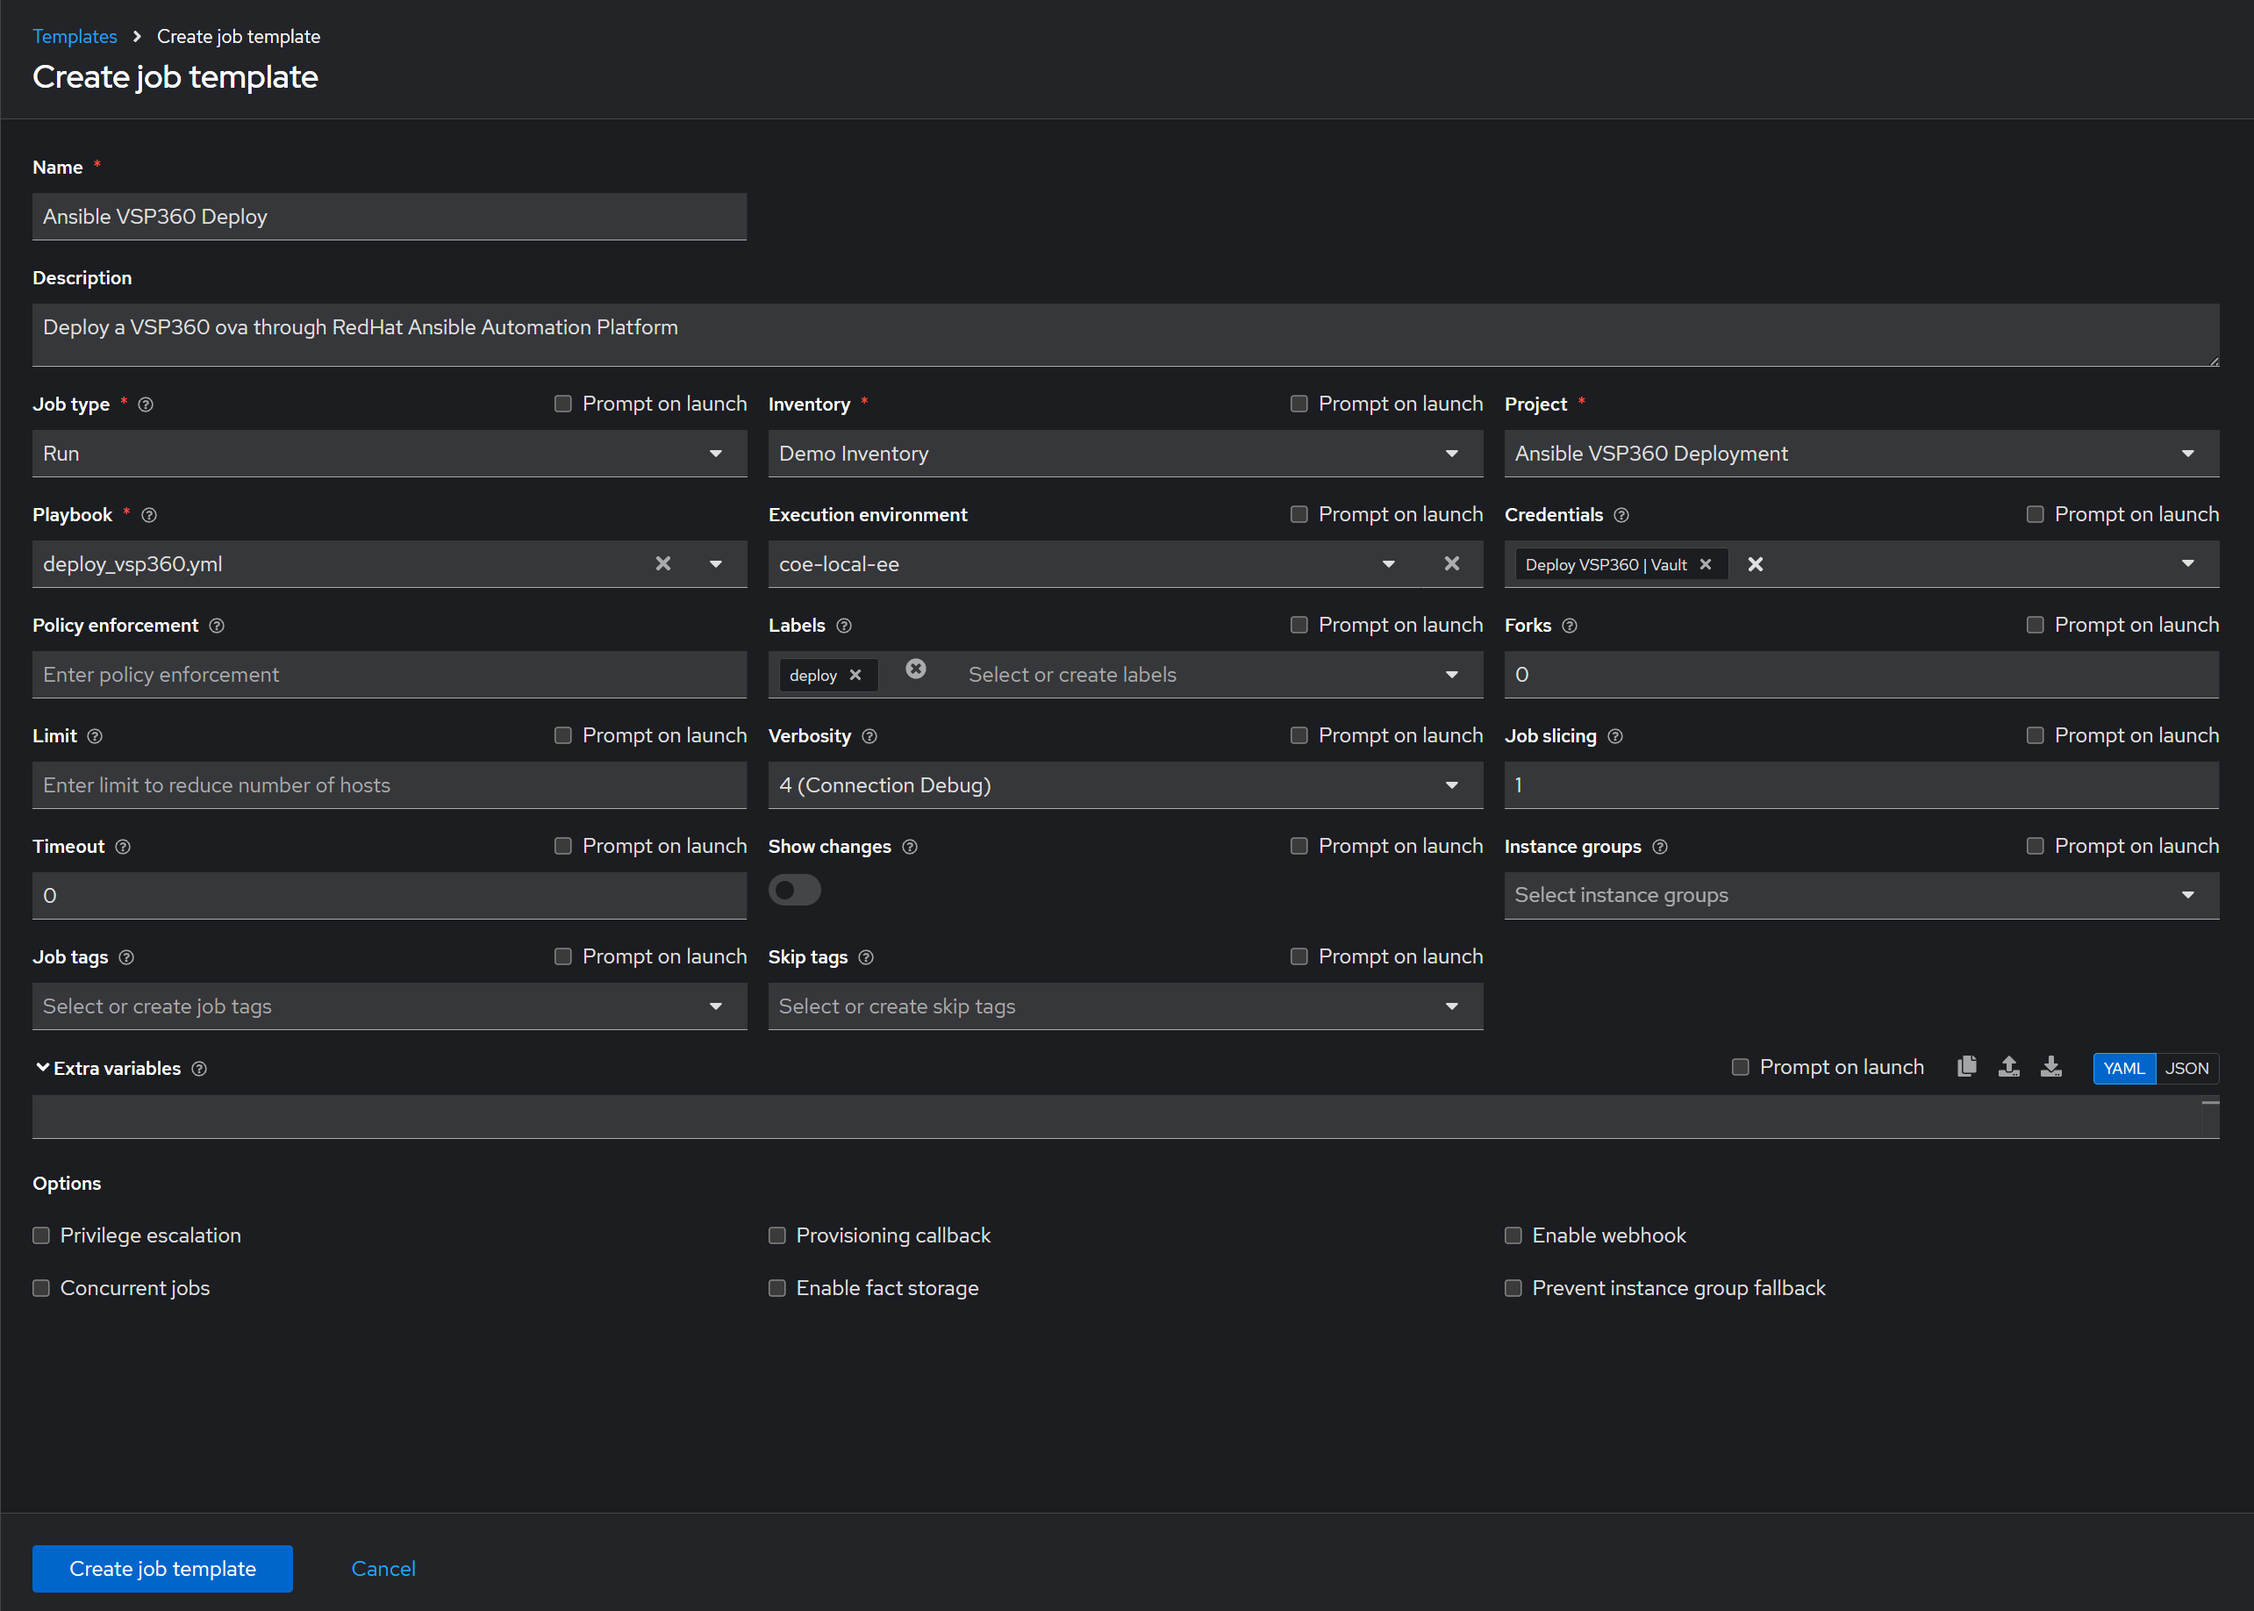
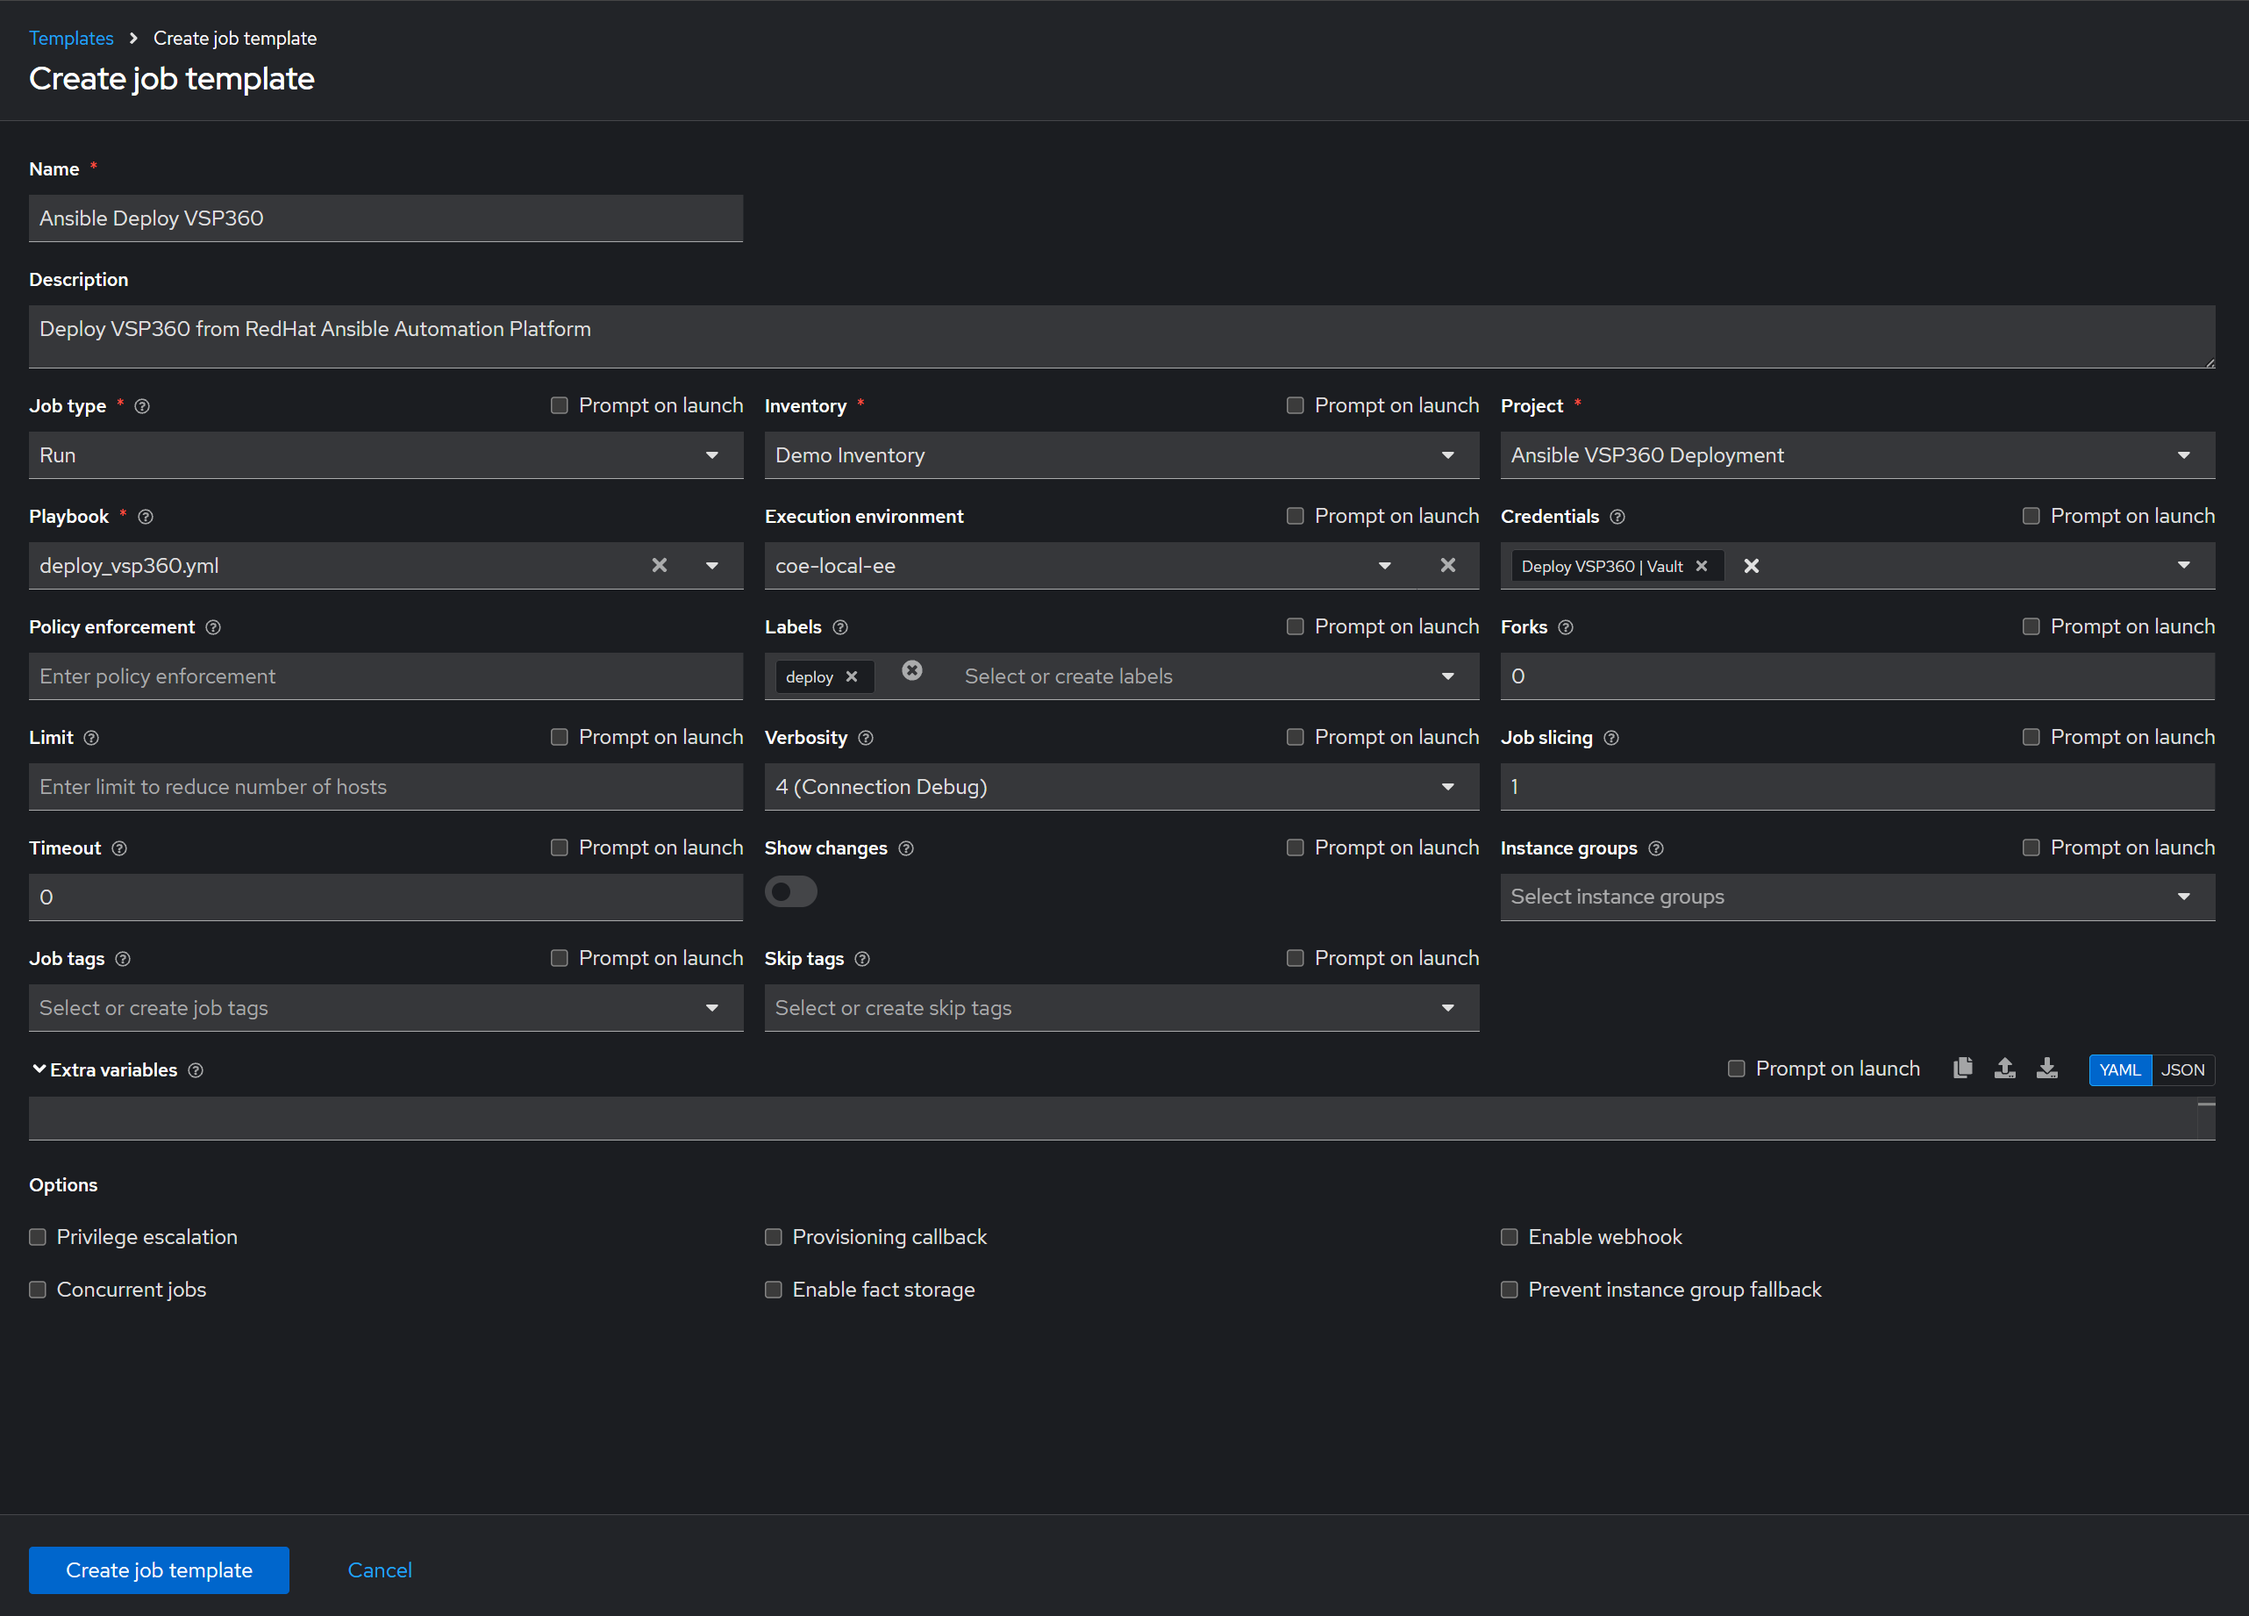
Update README

diff --git a/README.md b/README.md
@@ -118,7 +118,8 @@ Expected output:
 If you do not require automatic survey refresh from vCenter and the OVA
 file server, the deploy_vsp360.yml playbook can be used standalone with
 a manually configured survey in AAP. This removes the requirement for
-the Refresh VSP360 Survey job template and the nightly schedule.
+the Ansible Deploy VSP360 Survey Refresh job template and the nightly
+schedule.
 
 ### Step 1 — Create the Deploy Job Template
 
@@ -126,8 +127,8 @@ Follow Step 1 from the AAP Setup section below.
 
 ### Step 2 — Create the survey manually
 
-In AAP navigate to the Deploy VSP360 job template and select the
-Survey tab. Add the following questions manually:
+In AAP navigate to the Ansible Deploy VSP360 job template and select
+the Survey tab. Add the following questions manually:
 
 | Question | Variable | Type | Required |
 |---|---|---|---|
@@ -163,8 +164,8 @@ Disk Provisioning choices:
 
 ### Step 3 — Deploy VSP360
 
-Launch the Deploy VSP360 job template and complete the survey with
-your environment values.
+Launch the Ansible Deploy VSP360 job template and complete the survey
+with your environment values.
 
 ### Limitations of manual survey
 
@@ -183,13 +184,13 @@ Create a job template in AAP with the following settings:
 
 | Setting | Value |
 |---|---|
-| Name | Deploy VSP360 |
+| Name | Ansible Deploy VSP360 |
 | Playbook | deploy_vsp360.yml |
 | Credentials | Your Vault Credential |
 | Inventory | localhost |
 | Survey | Enabled (populated by the refresh job) |
 
-![Deploy VSP360 Job Template creation screen](images/Ansible_VSP360_Deploy.png)
+![Ansible Deploy VSP360 Job Template creation screen](images/Ansible_VSP360_Deploy.png)
 
 Note the Job Template ID from the URL once created — you will need it
 in Step 2.
@@ -210,12 +211,12 @@ Create a second job template with the following settings:
 
 | Setting | Value |
 |---|---|
-| Name | Refresh VSP360 Survey |
+| Name | Ansible Deploy VSP360 Survey Refresh |
 | Playbook | update_aap_survey.yml |
 | Credentials | Your Vault Credential |
 | Inventory | localhost |
 
-![Refresh VSP360 Survey Job Template creation screen](images/Ansible_VSP360_Refresh_Survey.png)
+![Ansible Deploy VSP360 Survey Refresh Job Template creation screen](images/Ansible_VSP360_Refresh_Survey.png)
 
 Add the following Extra Variable, replacing <template_id> with the
 ID noted from Step 1:
@@ -229,13 +230,14 @@ be set before the job will run successfully.
 
 ### Step 3 — Run the Survey Refresh Job
 
-Run the Refresh VSP360 Survey job template manually for the first time.
-This will:
+Run the Ansible Deploy VSP360 Survey Refresh job template manually
+for the first time. This will:
 
 - Connect to the OVA file server and discover available OVA files
 - Connect to vCenter and discover datastores, clusters, resource pools
   and networks
-- Create the survey on the Deploy VSP360 template if it does not exist
+- Create the survey on the Ansible Deploy VSP360 template if it does
+  not exist
 - Populate all dropdown choices with live data
 - Preserve any existing defaults
 
@@ -243,8 +245,8 @@ This will:
 
 ### Step 4 — Schedule the Survey Refresh Job
 
-Add a schedule to the Refresh VSP360 Survey job template to keep the
-survey choices up to date automatically:
+Add a schedule to the Ansible Deploy VSP360 Survey Refresh job template
+to keep the survey choices up to date automatically:
 
 | Setting | Value |
 |---|---|
@@ -261,9 +263,9 @@ Once the survey refresh job has run successfully the survey will be
 populated with live data. It is recommended to review and set the
 default values before the template is used for the first time.
 
-In AAP navigate to the Deploy VSP360 job template and select the
-Survey tab. For each question, click the edit icon and set the default
-value that best suits your environment. These defaults will be
+In AAP navigate to the Ansible Deploy VSP360 job template and select
+the Survey tab. For each question, click the edit icon and set the
+default value that best suits your environment. These defaults will be
 preserved by the nightly survey refresh job and will be pre-selected
 each time the deployment template is launched.
 
@@ -288,7 +290,8 @@ Typical defaults to consider setting:
 
 ### Step 6 — Deploy VSP360
 
-Launch the Deploy VSP360 job template. The survey will prompt for:
+Launch the Ansible Deploy VSP360 job template. The survey will prompt
+for:
 
 | Question | Description |
 |---|---|
@@ -357,8 +360,8 @@ Copied from ansible_vault_vars/ansible_vault.yml.example — not committed to Gi
 - Neither file should ever be committed to version control.
 - The survey refresh job safely preserves existing survey defaults and
   all non-dynamic questions on every run.
-- If no survey exists on the deploy template, the refresh job will create
-  one automatically with sensible defaults.
+- If no survey exists on the Ansible Deploy VSP360 template, the refresh
+  job will create one automatically with sensible defaults.
 - The refresh job will abort safely if no OVA files or vCenter objects
   are found, preventing the survey from being wiped.
 
